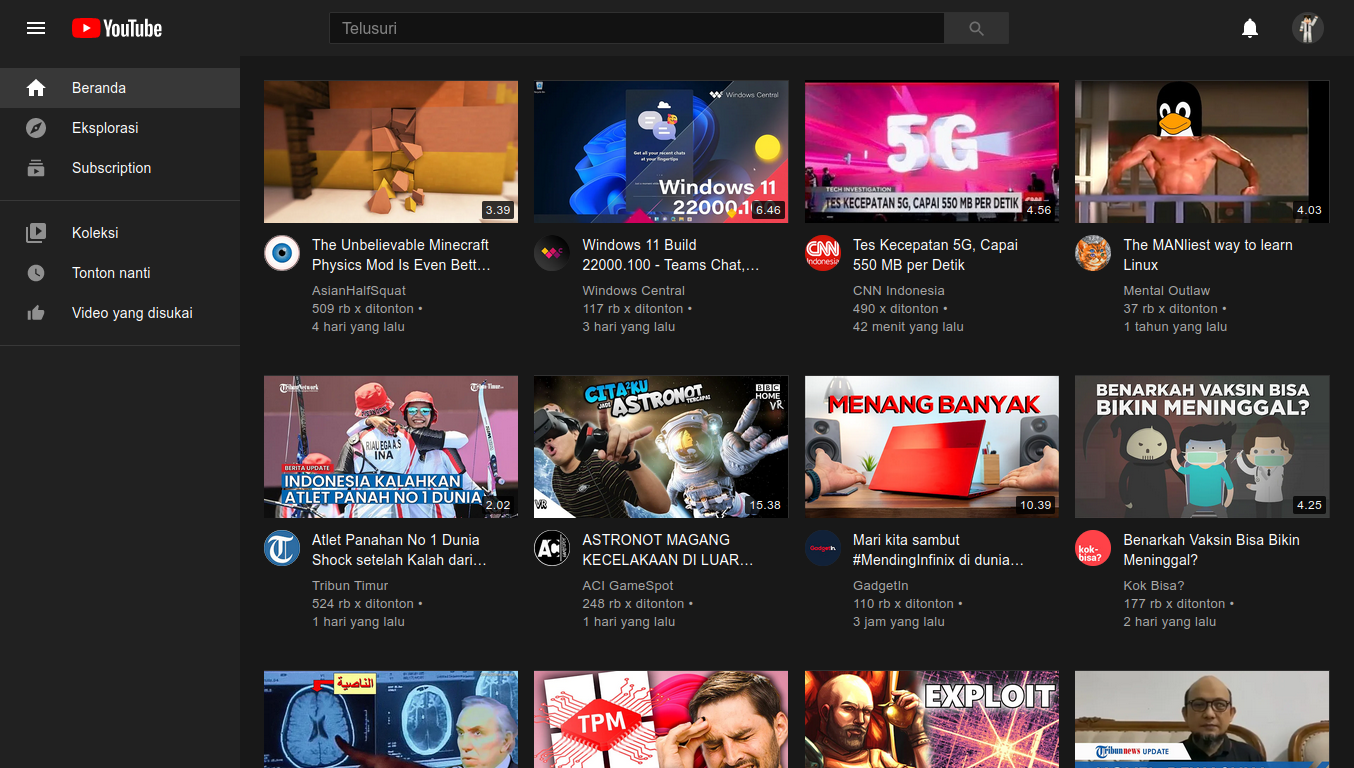
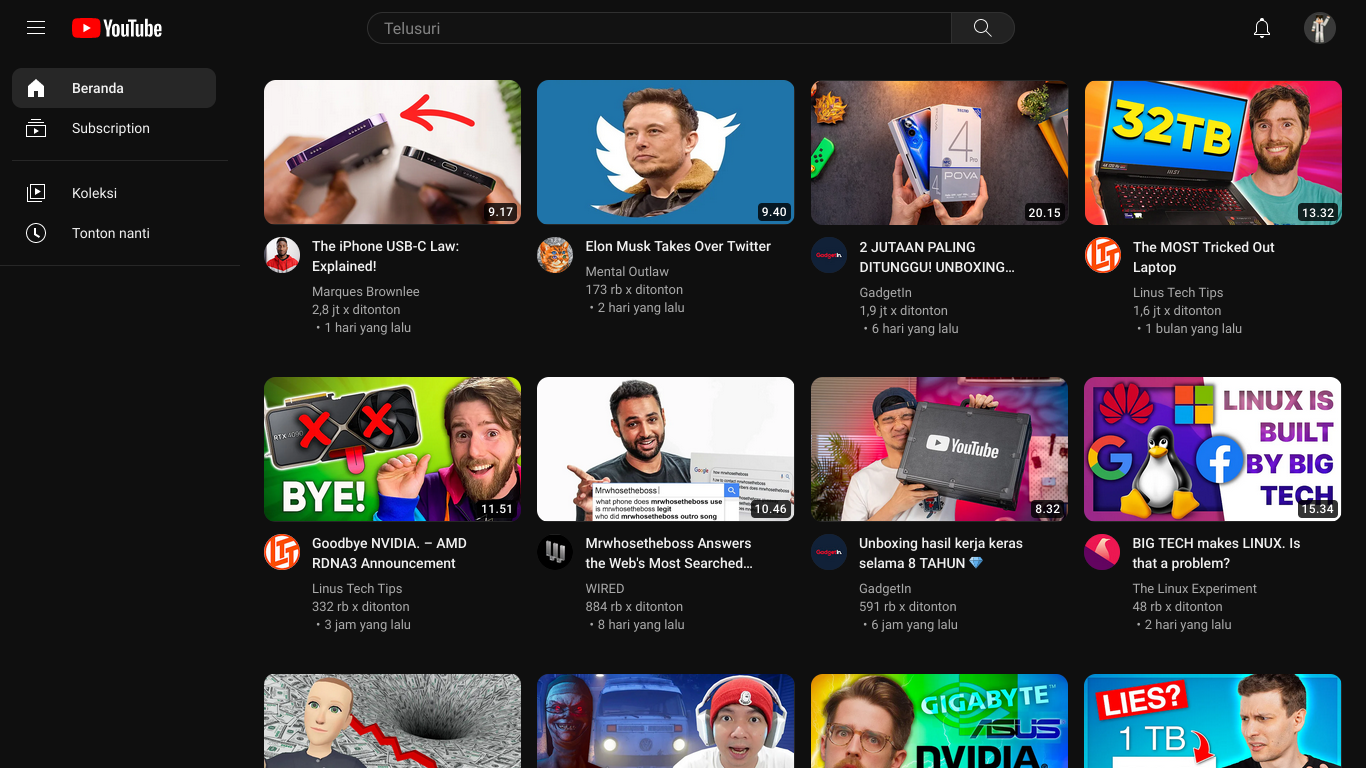
Update NT+PC_YT
Most of the updates are related to images, and couple feats to NTPCYT rulesets.

diff --git a/CHANGELOG.md b/CHANGELOG.md
@@ -6,6 +6,14 @@
  . Add mobile version preview on README.md.
 
 # Changelogs:
+### 04.11.2022:
+ + (Finally) Update Desktop Preview Image (mobile preview images will take longer time to process).
+ + Remove new view-obstructing-bloat "hint" text when hovering seekbar.
+ + Normalize Playlist Panel Text.
+ + Update README file.
+	 + Use the new NTPCYT Icon/Logo above the big title.
+	 + Temporarily remove preview image (will update preview image soon).
+
 ### 01.11.2022:
  + Welcome November, i have TONS of UI-related updates!
  + [ContentFilter] Add [l[a4]y[a4]n[i1],n[a4]psu,mantan \w+ membayangi,nikahan didatangi mantan,menyimpan (perasaan|rasa),si dia].

diff --git a/README.md b/README.md
@@ -1,6 +1,7 @@
+![NTPCYT Icon](https://https://raw.githubusercontent.com/MDP43140/NoTrash-PureClean-YT/main/.img/NTPC_YT_SimpleLogo.png)
 # No Trash + Pure Clean YouTube
 Makes YouTube Less trashy by removing distracting features, and trash videos/channels
-![No Trash + Pure Clean YouTube](https://repository-images.githubusercontent.com/386935074/dbf15c90-6bab-4d34-880c-1103c16ee50d)
+![NoTrash+PureClean_YouTube-PreviewImage (Temporarily not available for now...)](https://repository-images.githubusercontent.example.com/386935074/dbf15c90-6bab-4d34-880c-1103c16ee50d)
 
 Type | Without NT+PC YT | With NT+PC YT
 -|-|-
